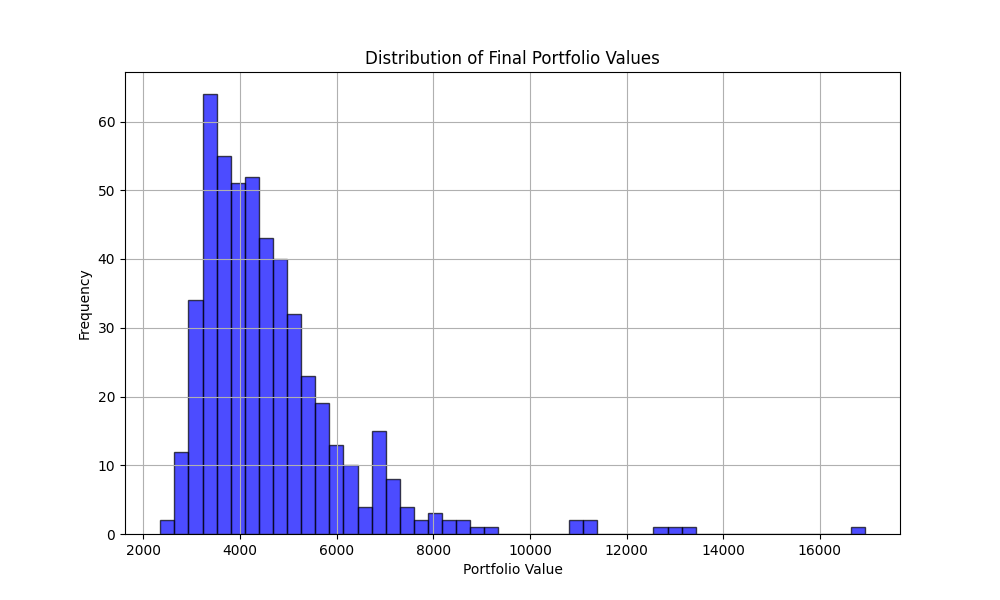
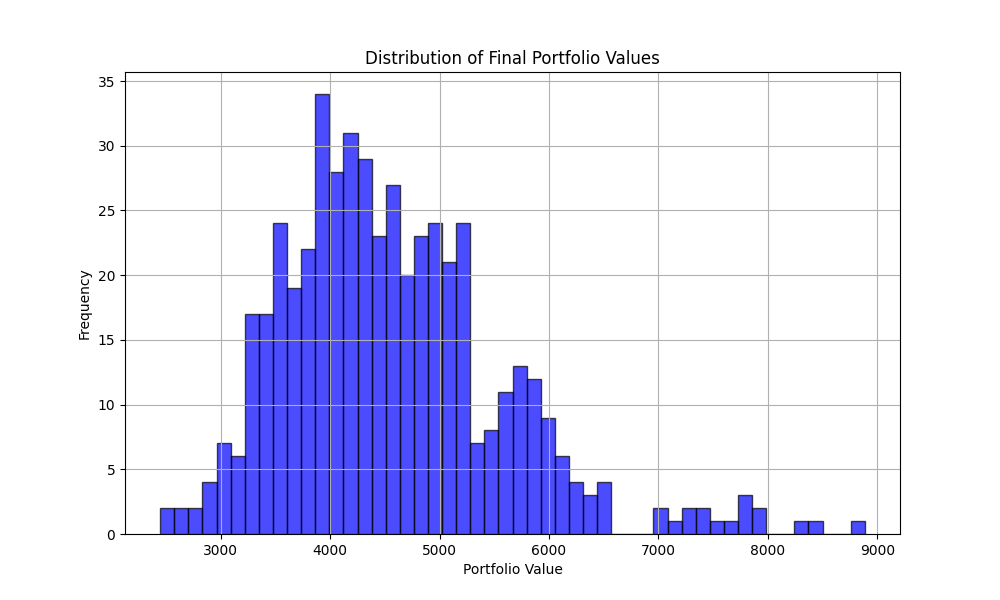
Finally done

diff --git a/PortfolioOptimizer/src/stock_fetcher.py b/PortfolioOptimizer/src/stock_fetcher.py
@@ -146,27 +146,90 @@ class StockFetcher:
     #         return None
 
 
+    # def fetch_snp500_daily_returns(self, time_horizon):
+    #     """
+    #     Fetch the daily returns for the S&P 500 index (^GSPC) for the given time horizon.
+    #     """
+    #     import yfinance as yf
+    #     import numpy as np
+    #     try:
+    #         # # Use '1y' as the period and then slice the returns
+    #         # periods = ['max', '10y', '5y', '2y', '1y']
+    #         # for period in periods:
+    #         #     sp500 = yf.Ticker("^GSPC")
+    #         #     history = sp500.history(period=period)
+    #         #     if not history.empty:
+    #         #         break
+    #         sp500 = yf.Ticker("^GSPC")
+    #         history = sp500.history(period="2y")  # Fetch 1 year of historical data
+        
+    #         if history.empty:
+    #             raise ValueError("No historical data returned for S&P 500 (^GSPC).")
+        
+    #         # Calculate daily returns
+    #         daily_returns = history['Close'].pct_change().dropna().values
+        
+    #         # Ensure the length matches the time_horizon
+    #         if len(daily_returns) < time_horizon:
+    #             #return daily_returns[-time_horizon:]
+            
+    #             raise ValueError(f"Could not fetch sufficient S&P 500 data for {time_horizon} days")
+        
+    #         return daily_returns[-time_horizon:]  # Return the most recent returns
+    #     except Exception as e:
+    #         print(f"Error fetching S&P 500 daily returns: {e}")
+    #         print(f"Generating s&p 500 returns")
+    #         #return np.random.normal(0.0001, 0.02, time_horizon)
+    #         return np.random.normal(0.0005, 0.01, time_horizon)
+
+    # def fetch_snp500_daily_returns(self, time_horizon):
+    #     """
+    #     Fetch the daily returns for the S&P 500 index (^GSPC) for the given time horizon.
+    #     """
+    #     import yfinance as yf
+
+    #     try:
+    #         sp500 = yf.Ticker("^GSPC")
+    #         # Fetch historical data for at least the time_horizon number of days
+    #         history = sp500.history(period=f"{time_horizon + 10}d")  # Fetch a bit more to account for weekends/holidays
+    #         if history.empty:
+    #             raise ValueError("No historical data returned for S&P 500 (^GSPC).")
+            
+    #         # Calculate daily returns
+    #         daily_returns = history['Close'].pct_change().dropna().values
+
+    #         # Ensure the length matches the time_horizon
+    #         if len(daily_returns) < time_horizon:
+    #             raise ValueError("Insufficient data for S&P 500 to match the time horizon.")
+    #         return daily_returns[:time_horizon]
+    #     except Exception as e:
+    #         print(f"Error fetching S&P 500 daily returns: {e}")
+    #         return None
     def fetch_snp500_daily_returns(self, time_horizon):
         """
         Fetch the daily returns for the S&P 500 index (^GSPC) for the given time horizon.
         """
         import yfinance as yf
+        import numpy as np
 
         try:
             sp500 = yf.Ticker("^GSPC")
-            # Fetch historical data for at least the time_horizon number of days
-            history = sp500.history(period=f"{time_horizon + 10}d")  # Fetch a bit more to account for weekends/holidays
+            history = sp500.history(period="2y")  # Fetch at least 2 years of data to cover weekends/holidays
             if history.empty:
                 raise ValueError("No historical data returned for S&P 500 (^GSPC).")
-            
-            # Calculate daily returns
+        
+            # Calculate daily percentage returns
             daily_returns = history['Close'].pct_change().dropna().values
-
+        
             # Ensure the length matches the time_horizon
             if len(daily_returns) < time_horizon:
-                raise ValueError("Insufficient data for S&P 500 to match the time horizon.")
-            return daily_returns[:time_horizon]
+                raise ValueError(f"Not enough S&P 500 data for the specified time horizon ({time_horizon} days).")
+        
+            # Return the last `time_horizon` daily returns
+            return daily_returns[-time_horizon:]
         except Exception as e:
             print(f"Error fetching S&P 500 daily returns: {e}")
-            return None
-    
+            print("Generating simulated S&P 500 daily returns.")
+            # Generate fallback random returns
+            return np.random.normal(0.0005, 0.01, time_horizon)
+

diff --git a/PortfolioOptimizer/src/monte_carlo.py b/PortfolioOptimizer/src/monte_carlo.py
@@ -467,71 +467,29 @@ class MonteCarloSimulator:
         print(f"Simulation graph saved as {filepath}")
         plt.show()
 
-    # def export_simulation_with_sp500_graph(self, portfolio_values, sp500_values, filename="monte_carlo_vs_sp500.png"):
-    #     os.makedirs("graphs", exist_ok=True)
-    #     filepath = os.path.join("graphs", filename)
 
-    #     # Aggregate portfolio values across simulations to get total portfolio value per time step
-    #     total_portfolio_values = portfolio_values.sum(axis=2)  # Sum across assets
-    #     avg_values = total_portfolio_values.mean(axis=1)  # Average across simulations
-    #     min_values = total_portfolio_values.min(axis=1)  # Minimum across simulations
-    #     max_values = total_portfolio_values.max(axis=1)  # Maximum across simulations
-
-    #     # Create figure
-    #     plt.figure(figsize=(12, 8))
-        
-    #     # Plot the average portfolio value
-    #     plt.plot(avg_values, color='blue', linewidth=2, label='Portfolio Avg. Value')
-        
-    #     # Shaded area for portfolio value range
-    #     plt.fill_between(
-    #         range(len(avg_values)),
-    #         min_values,
-    #         max_values,
-    #         color='blue',
-    #         alpha=0.2,
-    #         label='Portfolio Value Range'
-    #     )
-
-    #     # Plot S&P 500 performance
-    #     plt.plot(sp500_values, color='green', linestyle='--', linewidth=2, label='S&P 500 Performance')
-
-    #     # Add title and labels
-    #     plt.title('Monte Carlo Simulation vs S&P 500 Performance', fontsize=16, fontweight='bold')
-    #     plt.xlabel('Days', fontsize=14)
-    #     plt.ylabel('Portfolio Value', fontsize=14)
-    #     plt.xticks(fontsize=12)
-    #     plt.yticks(fontsize=12)
-
-    #     # Add grid for better readability
-    #     plt.grid(color='gray', linestyle='--', linewidth=0.5, alpha=0.7)
-
-    #     # Add legend
-    #     plt.legend(fontsize=12, loc='upper left', frameon=True)
-
-    #     # Save the figure
-    #     plt.savefig(filepath)
-    #     print(f"Simulation graph with S&P 500 saved as {filepath}")
-    #     plt.show()
     def export_simulation_with_sp500_graph(self, portfolio_values, sp500_values, filename="monte_carlo_vs_sp500.png"):
-        import os
-        import matplotlib.pyplot as plt
+        # import os
+        # import numpy as np
+        # import matplotlib.pyplot as plt
 
         os.makedirs("graphs", exist_ok=True)
         filepath = os.path.join("graphs", filename)
 
         # Aggregate portfolio values across simulations to get total portfolio value per time step
-        total_portfolio_values = portfolio_values.sum(axis=2)
-        avg_values = total_portfolio_values.mean(axis=1)
-        min_values = total_portfolio_values.min(axis=1)
-        max_values = total_portfolio_values.max(axis=1)
+        total_portfolio_values = np.sum(portfolio_values, axis=2)
+        avg_values = np.mean(total_portfolio_values, axis=1)
+        min_values = np.min(total_portfolio_values, axis=1)
+        max_values = np.max(total_portfolio_values, axis=1)
+
+        sp500_cumulative = self.initial_investment * np.cumprod(1 + sp500_values)
 
         time_horizon = len(avg_values)
-        if len(sp500_values) != time_horizon:
+        if len(sp500_cumulative) != time_horizon:
             raise ValueError("Length of S&P 500 values does not match time horizon.")
         
         plt.figure(figsize=(12, 8))
-        plt.plot(avg_values, color='blue', label='Portfolio Avg. Value')
+        plt.plot(avg_values, color='blue', label='Portfolio Avg. Value', linewidth=1.5)
 
         plt.fill_between(
             range(time_horizon),
@@ -542,9 +500,9 @@ class MonteCarloSimulator:
             label='Portfolio Value Range'
         )
 
-        plt.plot(sp500_values, color='green', linestyle='--', label='S&P 500 Performance')
+        plt.plot(sp500_cumulative, color='green', linestyle='--', label='S&P 500 Performance')
 
-        plt.title('Monte Carlo Simulation vs S&P 500 Performance')
+        plt.title('Monte Carlo Simulation vs S&P 500 Performance', fontsize=16, fontweight='bold')
         plt.xlabel('Days', fontsize=12)
         plt.ylabel('Portfolio Value', fontsize=12)
         plt.xticks(fontsize=10)

diff --git a/PortfolioOptimizer/main.py b/PortfolioOptimizer/main.py
@@ -334,7 +334,7 @@ if __name__ == "__main__":
     if portfolio_prices:
         simulator = MonteCarloSimulator(portfolio_prices, initial_investment)
         time_horizon = 365
-        portfolio_values = simulator.simulate(time_horizon=time_horizon)
+        portfolio_values = simulator.simulate(num_simulations=500, time_horizon=time_horizon)
 
         if portfolio_values is not None:
             simulator.export_simulation_graph(portfolio_values)
@@ -343,8 +343,9 @@ if __name__ == "__main__":
             sp500_returns = fetcher.fetch_snp500_daily_returns(time_horizon)  # This method should return daily S&P 500 returns as a numpy array
             
             # Export comparison graph (Monte Carlo vs S&P 500)
-        if sp500_returns is not None:
-            simulator.export_simulation_with_sp500_graph(portfolio_values, sp500_returns)
+            if sp500_returns is not None:
+                print (f"SP500 : {sp500_returns}")
+                simulator.export_simulation_with_sp500_graph(portfolio_values, sp500_returns)
 
 
             risk_metrics = RiskMetrics(portfolio_values)
